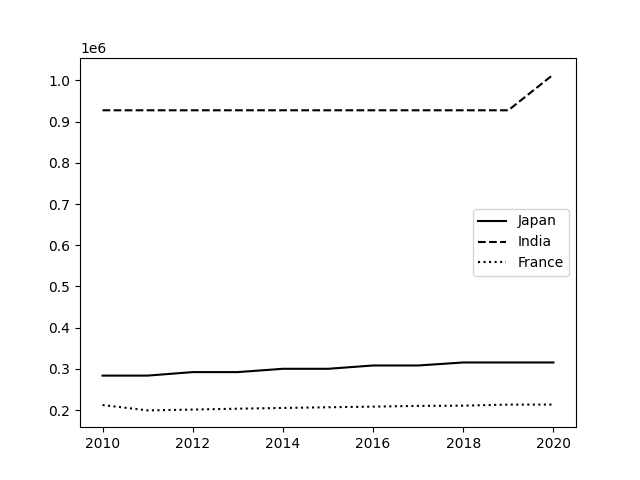
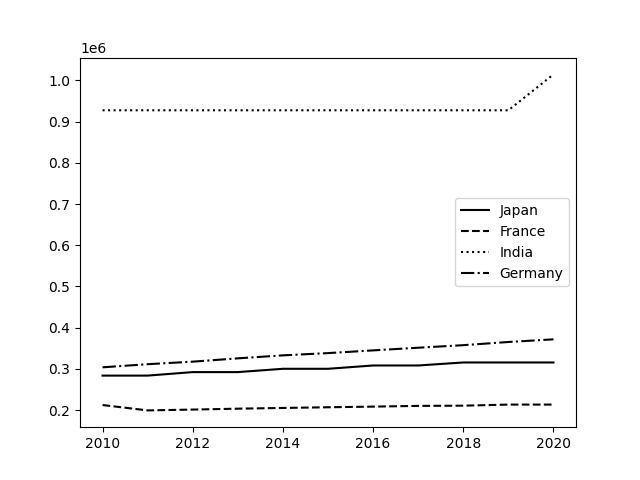
program change

diff --git a/src/medicalworkers.py b/src/medicalworkers.py
@@ -9,7 +9,136 @@ if os.path.exists('./data.csv'):
 else:
   # sp.call("wget https://raw.githubusercontent.com/kanako68/medicalworkers/main/data.csv")
   df = pd.read_csv('https://raw.githubusercontent.com/kanako68/medicalworkers/main/data.csv')
+  import subprocess as sp
+import pandas as pd
+import numpy as np
+import matplotlib.pyplot as plt
+import sys,os
+
+if os.path.exists('./data.csv'):
+  df = pd.read_csv('data.csv')
+else:
+  df = pd.read_csv('https://raw.githubusercontent.com/kanako68/medicalworkers/main/data.csv')
+  population = pd.read_csv('https://population.un.org/wpp/Download/Files/1_Indicators%20(Standard)/CSV_FILES/WPP2019_TotalPopulationBySex.csv')
   
+df = df[["Location","Period","FactValueNumeric"]]
+population = population[["Location","Time","PopTotal"]]
+population[['Time', 'PopTotal']] = population[['Time', 'PopTotal']].astype('int')
+population["PopTotal"] = population["PopTotal"]*1000
+
+#国リストに国入れる
+countries=[]
+for i in df.Location:
+  if i not in countries :
+    countries.append(i)
+# print(len(countries),': ',countries)
+print(len(countries))
+
+kari=sys.argv
+
+#ナンバーリスト
+no=len(kari)-1
+cnt=[]
+pop=[]
+print(no)
+#国リストに入力値があったらプリントして、gropbyしてcntリストに入れる
+
+for i in range(no):
+  if kari[i+1] in countries:
+    print(kari[i+1])
+    pop.append(population.groupby('Location').get_group(kari[i+1]))
+    cnt.append(df.groupby('Location').get_group(kari[i+1]))
+  else: 
+    print('correct the name of ',kari[i+1])
+print(len(pop))
+
+x=[]
+for i in range(2010,2021):
+  x.append(i)
+print(x)
+
+#リストに変換・欠損地埋める
+#リストに変換・欠損地埋める
+newdata=[]
+newpopdata=[]
+x=[]
+for i in range(2010,2021):
+  x.append(int(i))
+
+for j in range(len(cnt)):
+  df=cnt[j]
+  df=df.loc[: , ['Period','FactValueNumeric']]
+  print(df)
+  new = sorted(df.values.tolist())
+  cntry=[]
+  no=0
+  
+  print(len(new))
+  for i in range(2010,2021):
+    if no >= len(new) or i not in new[no]:
+      cntry.append(0)
+      # print('0')
+    else:
+      cntry.append(new[no][1])
+      no+=1    
+  print("cntry",cntry)
+  newdata.append(cntry)
+
+for j in range(len(pop)):
+
+  pop_=pop[j]
+  pop_=pop_.loc[: , ['Time','PopTotal']]
+  newpop = sorted(pop_.values.tolist())
+  cntry=[]
+  pop_list=[]
+  no=0
+  # print(newpop)
+  
+
+  for i in range(len(newpop)):
+    if no >= len(x) or x[no] not in newpop[i]:
+      pass
+    else:
+      pop_list.append(newpop[i][1])  
+      no+=1
+
+  print("pop",pop_list)
+  newpopdata.append(pop_list)
+
+cal=[]
+df_ = pd.DataFrame(newdata).replace([0], np.nan).T
+print(df_)
+medi=sum((df_.fillna(method='ffill').fillna(method='bfill').T).values.tolist(), [])
+pop = sum(newpopdata,[])
+for j in range(len(medi)):
+  medi[j] = int(medi[j])
+  cal.append(pop[j]/medi[j])
+print(cal)
+
+if len(cnt)==1:
+  plt.plot(x,cal,'k-',label=kari[1])
+if len(cnt)==2:
+  plt.plot(x,cal[0:11],'k-',label=kari[1])
+  plt.plot(x,cal[11:22],'k--',label=kari[2])
+if len(cnt)==3:
+  plt.plot(x,cal[0:11],'k-',label=kari[1])
+  plt.plot(x,cal[11:22],'k--',label=kari[2])
+  plt.plot(x,cal[22:33],'k:',label=kari[3])
+if len(cnt)==4:
+  plt.plot(x,cal[0:11],'k-',label=kari[1])
+  plt.plot(x,cal[11:22],'k--',label=kari[2])
+  plt.plot(x,cal[22:33],'k:',label=kari[3])
+  plt.plot(x,cal[33:44],'k-.',label=kari[4])
+
+
+def main():
+  plt.legend()
+  plt.savefig('result.png')
+  plt.yticks( np.arange(min(cal), max(cal),  (max(cal)-min(cal))/15))
+  plt.show()
+  
+if __name__ == "__main__":
+  main()
 df = df[["Location","Period","FactValueNumeric"]]
 
 #国リストに国入れる
